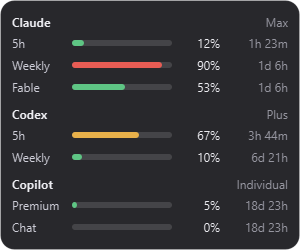
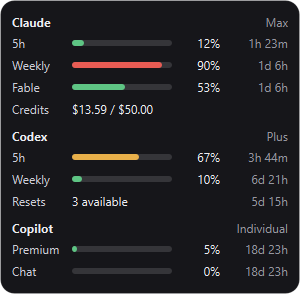
docs: showcase Credits and Resets rows in expanded screenshot

diff --git a/README.md b/README.md
@@ -13,7 +13,7 @@ QuotaBubble is a small, frameless desktop widget that keeps the usage limits for
 
 <p align="center">
   <img src="https://izzet.github.io/quotabubble/screenshot-compact.png?v=2" width="260" alt="Idle bubble">
-  <img src="https://izzet.github.io/quotabubble/screenshot-expanded.png?v=2" width="300" alt="Expanded detail">
+  <img src="https://izzet.github.io/quotabubble/screenshot-expanded.png?v=3" width="300" alt="Expanded detail">
 </p>
 
 ## Features
